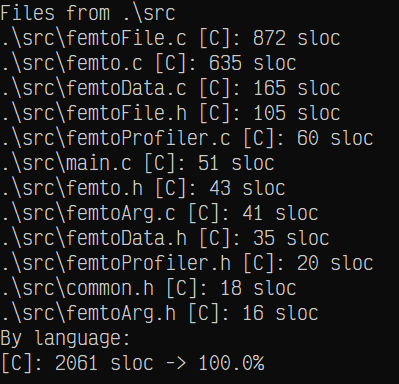
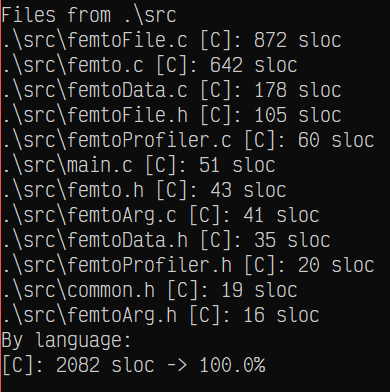
Update sloc

Changed region(s): [[0.0, 0.0, 0.9538, 1.0], [0.4308, 0.9062, 0.6769, 0.9688]]

diff --git a/README.md b/README.md
@@ -10,7 +10,7 @@ It is a bigger more feature-rich version of my other console text editor [atto](
 It is also written in vanilla C + Win32 Console API - it's designed to be used solely in Microsoft Windows.
 It has been compiled with MinGW GCC.
 
-Currently, my other tool [slocWin32](https://github.com/makuke1234/slocWin32) reports 2061 source code lines (excluding whitespace & comments):
+Currently, my other tool [slocWin32](https://github.com/makuke1234/slocWin32) reports 2082 source code lines (excluding whitespace & comments):
 
 ![SLOC](./images/sloc.png)
 
